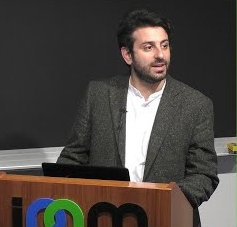
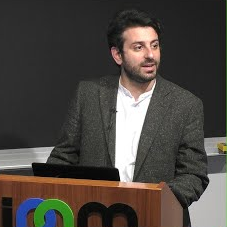
updates

diff --git a/index.html b/index.html
@@ -142,7 +142,7 @@
                 <!-- Participant 2: Akbar Salam -->
                 <div class="col-md-4 col-lg-3 participant">
                     <a href="https://chemistry.wfu.edu/people/faculty/akbar-salam/" target="_blank">
-                        <img src="images/participants/akbar_salam.jpg" alt="Akbar Salam" class="img-fluid" width="150" height="150">
+                        <img src="images/participants/akbar_salam.png" alt="Akbar Salam" class="img-fluid" width="150" height="150">
                         <h4>Akbar Salam</h4>
                         <p>Wake Forest University</p>
                     </a>
@@ -150,7 +150,7 @@
                 <!-- Participant 3: Alejandro W. Rodriguez -->
                 <div class="col-md-4 col-lg-3 participant">
                     <a href="https://ece.princeton.edu/people/alejandro-rodriguez/" target="_blank">
-                        <img src="images/participants/alejandro_rodriguez.jpg" alt="Alejandro W. Rodriguez" class="img-fluid" width="150" height="150">
+                        <img src="images/participants/alejandro_rodriguez.png" alt="Alejandro W. Rodriguez" class="img-fluid" width="150" height="150">
                         <h4>Alejandro W. Rodriguez</h4>
                         <p>Princeton University</p>
                     </a>
@@ -158,7 +158,7 @@
                 <!-- Participant 4: Alexandre Tkatchenko -->
                 <div class="col-md-4 col-lg-3 participant">
                     <a href="https://scholar.google.com/citations?user=o2t1Pv8AAAAJ&hl=en" target="_blank">
-                        <img src="images/participants/alexandre_tkatchenko.jpg" alt="Alexandre Tkatchenko" class="img-fluid" width="150" height="150">
+                        <img src="images/participants/alexandre_tkatchenko.png" alt="Alexandre Tkatchenko" class="img-fluid" width="150" height="150">
                         <h4>Alexandre Tkatchenko</h4>
                         <p>University of Luxembourg</p>
                     </a>
@@ -168,7 +168,7 @@
                 <!-- Participant 5: Andrey Moskalenko -->
                 <div class="col-md-4 col-lg-3 participant">
                     <a href="https://physics.kaist.ac.kr/index.php?mid=p_news_event2&document_srl=9774" target="_blank">
-                        <img src="images/participants/andrey_moskalenko.jpeg" alt="Andrey Moskalenko" class="img-fluid" width="150" height="150">
+                        <img src="images/participants/andrey_moskalenko.png" alt="Andrey Moskalenko" class="img-fluid" width="150" height="150">
                         <h4>Andrey Moskalenko</h4>
                         <p>KAIST, Daejeon</p>
                     </a>
@@ -176,7 +176,7 @@
                 <!-- Participant 6: Aurélia Chenu -->
                 <div class="col-md-4 col-lg-3 participant">
                     <a href="https://chenulab.com/" target="_blank">
-                        <img src="images/participants/aurelia_chenu.jpg" alt="Aurélia Chenu" class="img-fluid" width="150" height="150">
+                        <img src="images/participants/aurelia_chenu.png" alt="Aurélia Chenu" class="img-fluid" width="150" height="150">
                         <h4>Aurélia Chenu</h4>
                         <p>University of Luxembourg</p>
                     </a>
@@ -184,7 +184,7 @@
                 <!-- Participant 7: Denis V. Seletskiy -->
                 <div class="col-md-4 col-lg-3 participant">
                     <a href="https://www.polymtl.ca/phys/en/denis-seletskiy" target="_blank">
-                        <img src="images/participants/denis_seletskiy.jpg" alt="Denis V. Seletskiy" class="img-fluid" width="150" height="150">
+                        <img src="images/participants/denis_seletskiy.png" alt="Denis V. Seletskiy" class="img-fluid" width="150" height="150">
                         <h4>Denis V. Seletskiy</h4>
                         <p>Polytechnique Montréal</p>
                     </a>
@@ -192,7 +192,7 @@
                 <!-- Participant 8: Dmitry Fedorov -->
                 <div class="col-md-4 col-lg-3 participant">
                     <a href="https://scholar.google.lu/citations?user=QFbEoSEAAAAJ&hl=en" target="_blank">
-                        <img src="images/participants/dmitry_fedorov.jpg" alt="Dmitry Fedorov" class="img-fluid" width="150" height="150">
+                        <img src="images/participants/dmitry_fedorov.png" alt="Dmitry Fedorov" class="img-fluid" width="150" height="150">
                         <h4>Dmitry Fedorov</h4>
                         <p>University of Luxembourg</p>
                     </a>
@@ -201,7 +201,7 @@
             <!-- Participant 9: Giuseppe Luca Celardo -->
             <div class="col-md-4 col-lg-3 participant">
                 <a href="http://www.dmf.unicatt.it/~celardo/" target="_blank">
-                    <img src="images/participants/giuseppe_celardo.jpeg" alt="Giuseppe Luca Celardo" class="img-fluid" width="150" height="150">
+                    <img src="images/participants/giuseppe_celardo.png" alt="Giuseppe Luca Celardo" class="img-fluid" width="150" height="150">
                     <h4>Giuseppe Luca Celardo</h4>
                     <p>University of Florence</p>
                 </a>
@@ -210,7 +210,7 @@
             <!-- Participant 10: Jörg Schmiedmayer -->
             <div class="col-md-4 col-lg-3 participant">
                 <a href="https://tiss.tuwien.ac.at/fpl/person/index.xhtml?id=190" target="_blank">
-                    <img src="images/participants/jorg_schmiedmayer.jpg" alt="Jörg Schmiedmayer" class="img-fluid" width="150" height="150">
+                    <img src="images/participants/jorg_schmiedmayer.png" alt="Jörg Schmiedmayer" class="img-fluid" width="150" height="150">
                     <h4>Jörg Schmiedmayer</h4>
                     <p>TU Wien</p>
                 </a>
@@ -219,7 +219,7 @@
             <!-- Participant 11: Julen Simon Pedernales -->
             <div class="col-md-4 col-lg-3 participant">
                 <a href="https://www.uni-ulm.de/en/nawi/institute-for-complex-quantum-systems/staff/scientific-staff/julen-simon-pedernales/" target="_blank">
-                    <img src="images/participants/julen_pedernales.jpeg" alt="Julen Simon Pedernales" class="img-fluid" width="150" height="150">
+                    <img src="images/participants/julen_pedernales.png" alt="Julen Simon Pedernales" class="img-fluid" width="150" height="150">
                     <h4>Julen Simon Pedernales</h4>
                     <p>University of Ulm</p>
                 </a>
@@ -228,7 +228,7 @@
             <!-- Participant 12: Katharine Clarke HuntKlaus Molmer -->
             <div class="col-md-4 col-lg-3 participant">
             	<a href="https://www.x-mol.com/university/faculty/2895" target="_blank">
-            	    <img src="images/participants/katharine_hunt.jpg" alt="Katharine Clarke Hunt" class="img-fluid" width="150" height="150">
+            	    <img src="images/participants/katharine_hunt.png" alt="Katharine Clarke Hunt" class="img-fluid" width="150" height="150">
                     <h4>Katharine Clarke Hunt</h4>
                     <p>Michigan State University</p>
                 </a>
@@ -237,7 +237,7 @@
                 <!-- Participant 13: Lilia M. Woods -->
                 <div class="col-md-4 col-lg-3 participant">
                     <a href="http://physics.usf.edu/faculty/lwoods/" target="_blank">
-                        <img src="images/participants/lilia_woods.jpeg" alt="Lilia M. Woods" class="img-fluid" width="150" height="150">
+                        <img src="images/participants/lilia_woods.png" alt="Lilia M. Woods" class="img-fluid" width="150" height="150">
                         <h4>Lilia M. Woods</h4>
                         <p>University of South Florida</p>
                     </a>
@@ -255,7 +255,7 @@
                 <!-- Participant 15: Mikhail Lemeshko -->
                 <div class="col-md-4 col-lg-3 participant">
                     <a href="https://ist.ac.at/en/research/lemeshko-group/" target="_blank">
-                        <img src="images/participants/mikhail_lemeshko.jpg" alt="Mikhail Lemeshko" class="img-fluid" width="150" height="150">
+                        <img src="images/participants/mikhail_lemeshko.png" alt="Mikhail Lemeshko" class="img-fluid" width="150" height="150">
                         <h4>Mikhail Lemeshko</h4>
                         <p>Institute of Science and Technology, Austria</p>
                     </a>
@@ -264,7 +264,7 @@
                 <!-- Participant 16: Roberto Passante -->
                 <div class="col-md-4 col-lg-3 participant">
                     <a href="https://www.unipa.it/persone/docenti/p/roberto.passante" target="_blank">
-                        <img src="images/participants/roberto_passante.webp" alt="Roberto Passante" class="img-fluid" width="150" height="150">
+                        <img src="images/participants/roberto_passante.png" alt="Roberto Passante" class="img-fluid" width="150" height="150">
                         <h4>Roberto Passante</h4>
                         <p>Università degli Studi di Palermo</p>
                     </a>
@@ -275,9 +275,17 @@
                 <!-- Participant 17: Ulf Leonhardt -->
                 <div class="col-md-4 col-lg-3 participant">
                     <a href="https://www.weizmann.ac.il/complex/prof-ulf-leonhardt" target="_blank">
-                        <img src="images/participants/ulf_leonhardt.jpg" alt="Ulf Leonhardt" class="img-fluid" width="150" height="150">
+                        <img src="images/participants/ulf_leonhardt.png" alt="Ulf Leonhardt" class="img-fluid" width="150" height="150">
                         <h4>Ulf Leonhardt</h4>
                         <p>Weizmann Institute of Science</p>
+                    </a>
+                </div>
+                                <!-- Participant 18: Yolande Edjogo -->
+                <div class="col-md-4 col-lg-3 participant">
+                    <a href="https://www.weizmann.ac.il/complex/prof-ulf-leonhardt" target="_blank">
+                        <img src="images/participants/yolande_edjogo.png" alt="Ulf Leonhardt" class="img-fluid fixed-height" height="150">
+                        <h4>Yolande Edjogo</h4>
+                        <p>University of Luxembourg</p>
                     </a>
                 </div>
 </section>

diff --git a/css/style.css b/css/style.css
@@ -973,8 +973,8 @@ strong {
   font-weight: bold;
 }
 
-.white{
-  color:white !important;
+.black{
+  color:black !important;
 }
 
 .wrap {
@@ -1059,6 +1059,11 @@ background-color: #C5EFF7;
 
 /* Register/Login */
 
+/* Add this to your CSS file or within a <style> tag in your HTML */
+.fixed-height {
+    width: auto; /* Allow the width to adjust while maintaining aspect ratio */
+    max-height: 150px; /* Set the maximum height to 150 pixels */
+}
 
 .form {
     position: relative;
